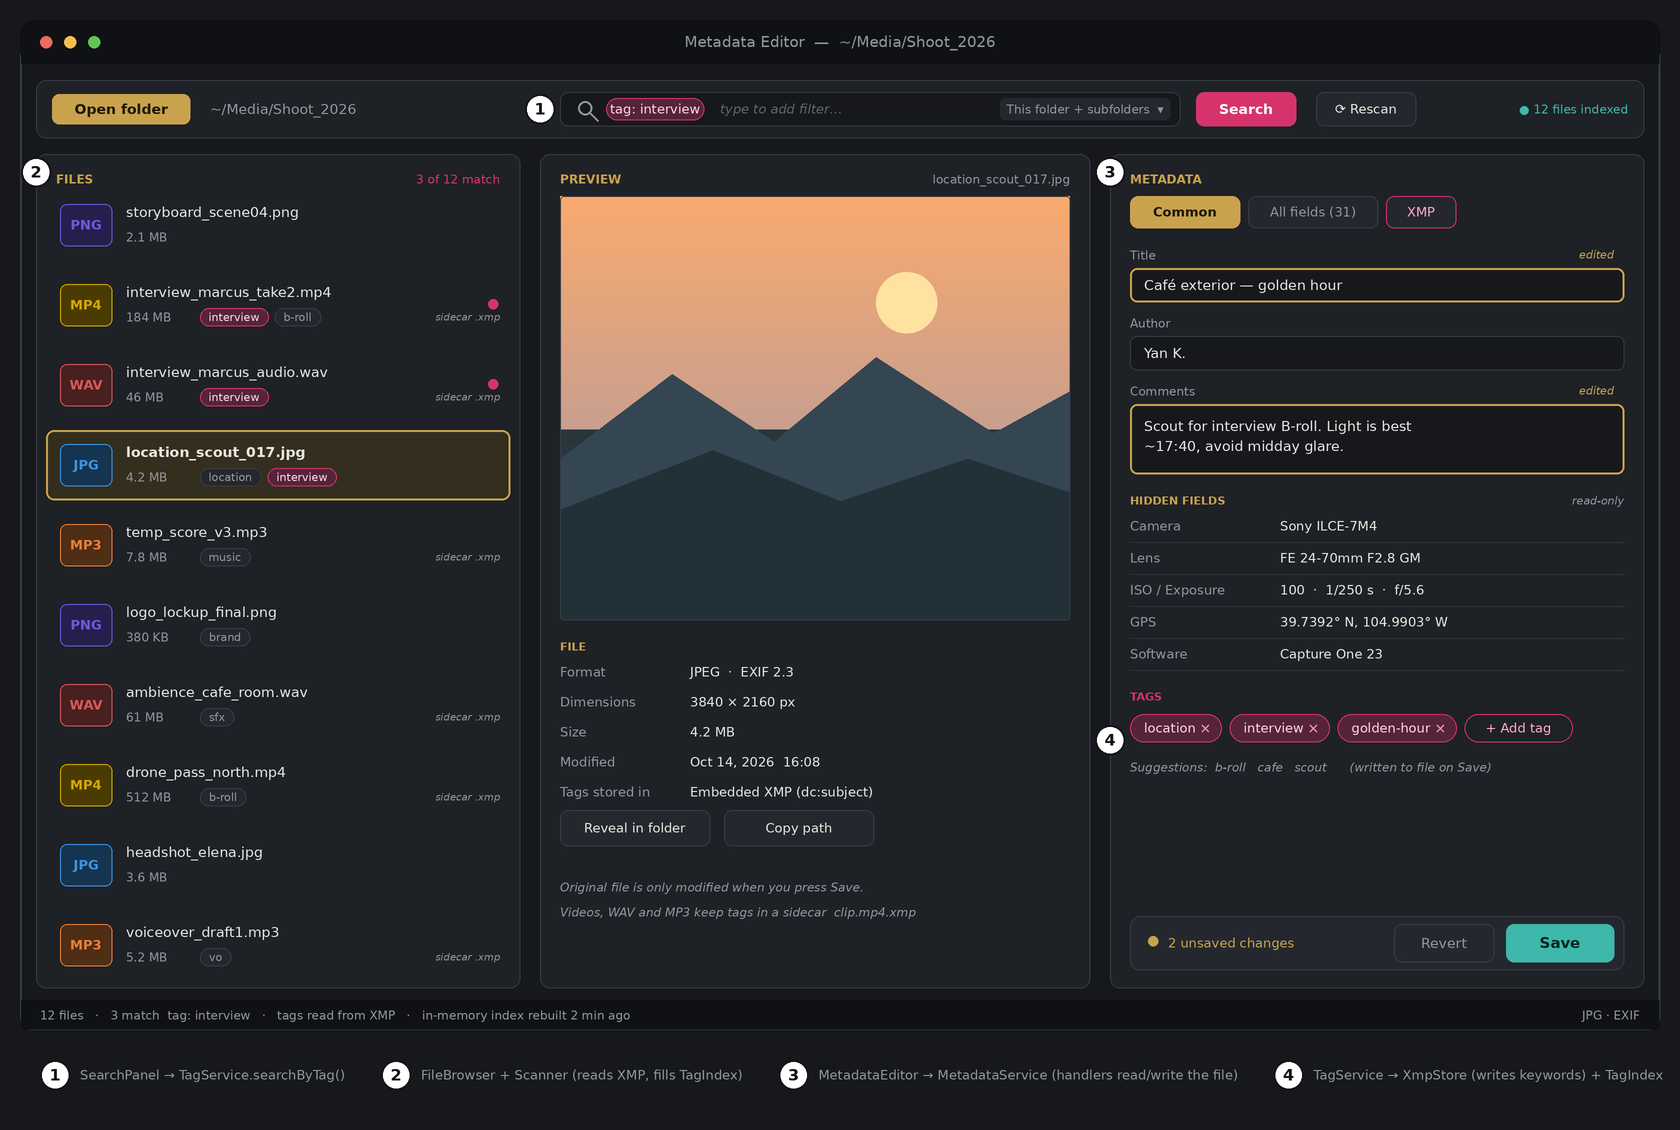
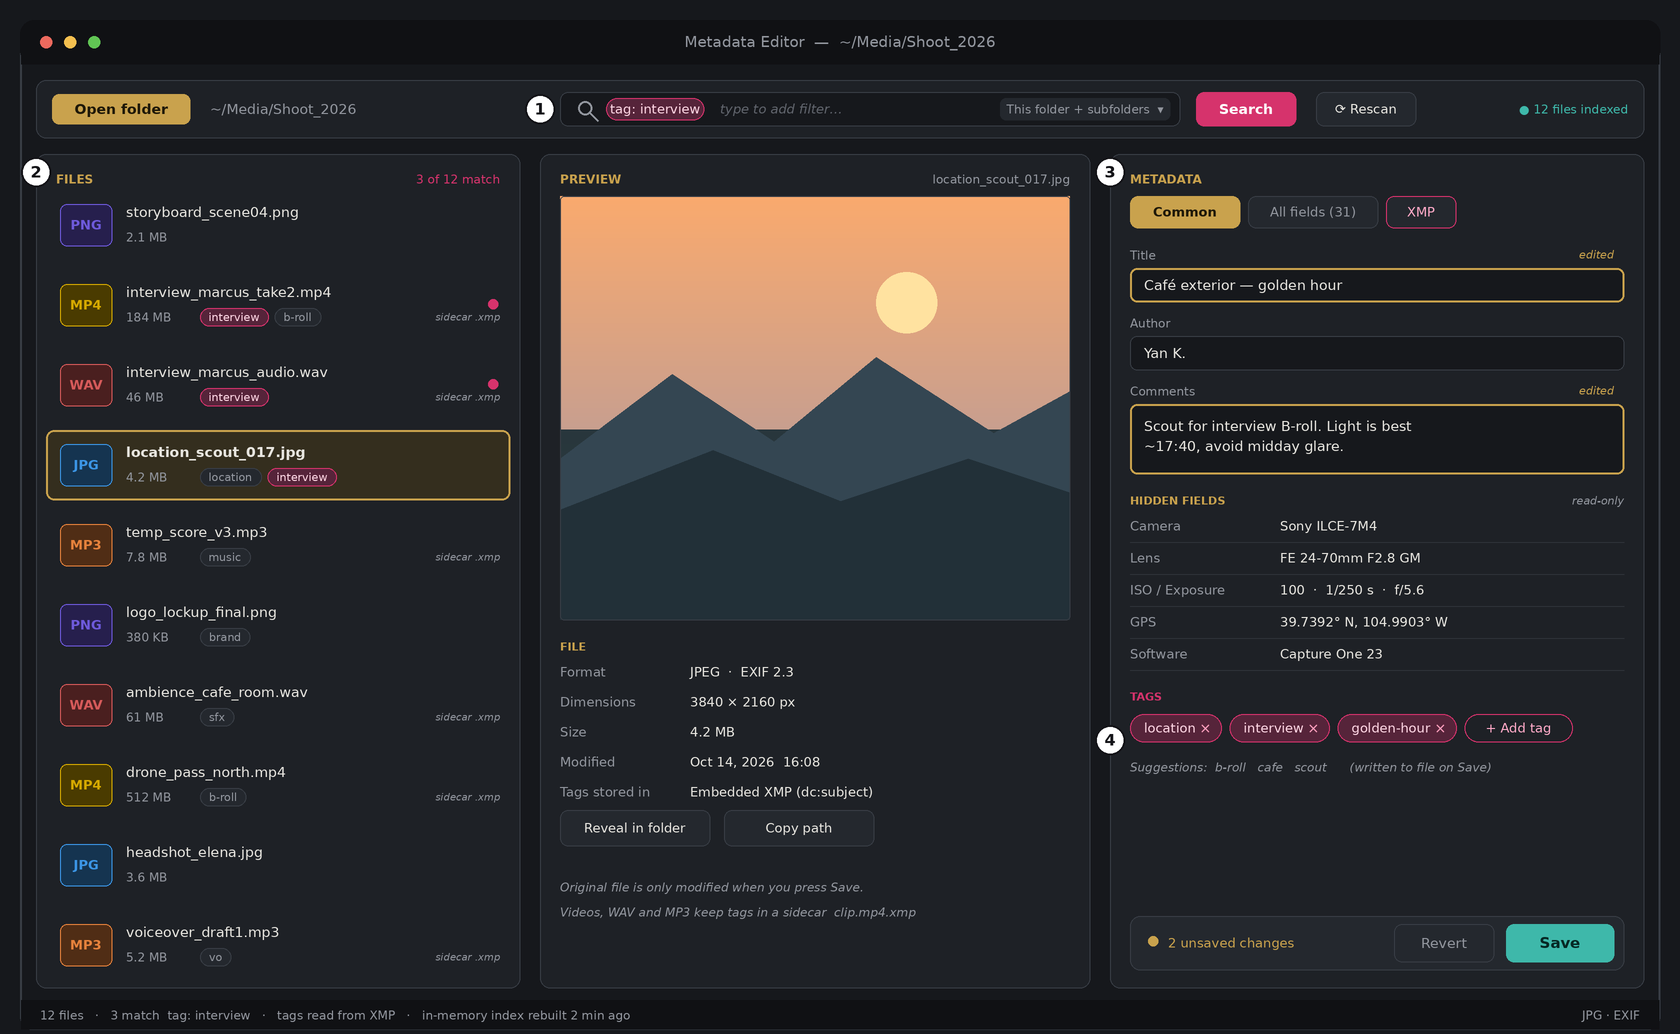
feat(home): task-first hero, screenshot legend and "How it works" steps
- Home button matches the visitor's system ("Download for Windows / macOS / Linux").
- Crop the developer labels off assets/screenshot-main.png; the numbered legend is now
  real text under the picture. Add width/height to avoid layout shift.
- Feature cards get icons in one consistent style.
- Add a 3-step "How it works" section (open a folder, edit or tag, search by tag).
- Supported formats become a proper list; remove the legacy .formats span rule.
- main.js: add shared helpers (byId, detectOS, setStatus) and the home-button logic.

diff --git a/code/website/index.html b/code/website/index.html
@@ -5,7 +5,6 @@
 <meta name="viewport" content="width=device-width, initial-scale=1">
 <title>Home · MultiMedia Metadata Manager (QuadM)</title>
 <meta name="description" content="View and edit hidden metadata, tag files, and search by tag across your media folders.">
-<!-- Apply the shared styles used across the project website. -->
 <link rel="icon" href="assets/favicon.svg" type="image/svg+xml">
 <link rel="stylesheet" href="css/style.css">
 </head>
@@ -25,35 +24,59 @@
   </div>
 </header>
 <main>
-<!-- Introduce the app's purpose and direct visitors to downloads or instructions. -->
+<!-- Hero: one clear promise and one primary action (download), one secondary (guide). -->
 <section class="hero" id="content">
   <div class="wrap">
+    <p class="eyebrow">Desktop app for Windows, macOS and Linux</p>
     <h1>See and edit everything hidden inside your media files.</h1>
     <p class="lead">MultiMedia Metadata Manager (QuadM) is a focused desktop file explorer for images, audio and video. Edit title, author and comments, tag your files, and search by tag across whole folders.</p>
     <p class="cta">
-      <a class="btn primary" href="download.html">Download QuadM</a>
-      <a class="btn" href="guide.html">Read the user guide</a>
+      <a class="btn primary btn-lg" id="cta-download" href="download.html">Download QuadM</a>
+      <a class="btn btn-lg" href="guide.html">Read the user guide</a>
     </p>
-    <!-- Display a visual preview of the app interface. Replace the mockup when a final screenshot is available. -->
-    <img class="shot" src="assets/screenshot-main.png" alt="MultiMedia Metadata Manager (QuadM) main window (design mockup)">
+    <p class="muted small">Your original files are only changed when you press Save.</p>
+    <!-- The numbered circles in the picture are explained by the legend, so the labels are real text, not part of the image. -->
+    <figure class="shot-fig">
+      <img class="shot" src="assets/screenshot-main.png" width="1680" height="1034" alt="QuadM main window (design preview): a file list on the left, a preview in the middle, and metadata fields and tags on the right.">
+      <figcaption>
+        Preview of the main window:
+        <ol class="legend">
+          <li>Search by tag</li>
+          <li>Browse files</li>
+          <li>View and edit metadata</li>
+          <li>Add tags</li>
+        </ol>
+      </figcaption>
+    </figure>
   </div>
 </section>
 
-<!-- Summarize the app's core metadata, tagging, and search capabilities. -->
+<!-- Features: four cards, same structure, same icon style. -->
 <section class="wrap">
   <h2>What it does</h2>
   <div class="cards">
-    <article class="card"><h3>View all metadata</h3><p>Common fields plus the hidden ones: camera, GPS, codec, software, and more.</p></article>
-    <article class="card"><h3>Edit common fields</h3><p>Change title, author and comments. Nothing is written until you press Save.</p></article>
-    <article class="card"><h3>Tag your files</h3><p>Tags are stored in the file itself (XMP), or in a sidecar .xmp file for video and audio.</p></article>
-    <article class="card"><h3>Search by tag</h3><p>Find every file with a tag across a folder and its subfolders.</p></article>
+    <article class="card"><h3><svg class="icon" aria-hidden="true" viewBox="0 0 24 24"><path d="M1 12s4-7 11-7 11 7 11 7-4 7-11 7S1 12 1 12z"/><circle cx="12" cy="12" r="3"/></svg>View all metadata</h3><p>Common fields plus the hidden ones: camera, GPS, codec, software, and more.</p></article>
+    <article class="card"><h3><svg class="icon" aria-hidden="true" viewBox="0 0 24 24"><path d="M12 20h9"/><path d="M16.5 3.5a2.1 2.1 0 013 3L7 19l-4 1 1-4z"/></svg>Edit common fields</h3><p>Change title, author and comments. Nothing is written until you press Save.</p></article>
+    <article class="card"><h3><svg class="icon" aria-hidden="true" viewBox="0 0 24 24"><path d="M20.6 13.4l-7.2 7.2a2 2 0 01-2.8 0L2 12V2h10l8.6 8.6a2 2 0 010 2.8z"/><circle cx="7" cy="7" r="1.5"/></svg>Tag your files</h3><p>Tags are stored in the file itself (XMP), or in a sidecar .xmp file for video and audio.</p></article>
+    <article class="card"><h3><svg class="icon" aria-hidden="true" viewBox="0 0 24 24"><circle cx="11" cy="11" r="7"/><path d="M21 21l-4.3-4.3"/></svg>Search by tag</h3><p>Find every file with a tag across a folder and its subfolders.</p></article>
   </div>
+</section>
+
+<!-- The three steps a user actually takes (task flow), so a new visitor knows what using it looks like. -->
+<section class="wrap">
+  <h2>How it works</h2>
+  <ol class="how">
+    <li><strong>Open a folder</strong>QuadM scans it and its subfolders and lists your media files.</li>
+    <li><strong>Edit or tag</strong>Select a file, change its fields or add tags, then press Save.</li>
+    <li><strong>Search by tag</strong>Type a tag and see every matching file in seconds.</li>
+  </ol>
+  <p style="margin-top:var(--s4)"><a href="guide.html">Read the full user guide &rarr;</a></p>
 </section>
 
 <!-- List the media formats currently supported by the app. -->
 <section class="wrap">
   <h2>Supported formats</h2>
-  <p class="formats"><span>PNG</span><span>JPG</span><span>WAV</span><span>MP3</span><span>MP4</span></p>
+  <ul class="formats"><li>PNG</li><li>JPG</li><li>WAV</li><li>MP3</li><li>MP4</li></ul>
   <p class="muted">Built for media editors and anyone with a large collection of photos, music and video.</p>
 </section>
 </main>
@@ -69,8 +92,6 @@
     </nav>
   </div>
 </footer>
-<!-- Load shared JavaScript for interactive features used by site pages. -->
 <script src="js/main.js"></script>
-
 </body>
 </html>

diff --git a/code/website/js/main.js b/code/website/js/main.js
@@ -5,6 +5,48 @@ const REPO = "University-of-Colorado-Anschutz-Denver/CSCI-3508-Group-6";   // ow
 const FIREBASE = { projectId: "quadmdatabase", apiKey: "AIzaSyBEJ8hqkAfUM4wEWumKLhwnccG6hhm0-Q4" };
 
 // ---------------------------------------------------------------------------
+// Shared helpers
+// ---------------------------------------------------------------------------
+const byId = id => document.getElementById(id);
+
+// Which operating system is the visitor on? Returns "win", "mac", "linux" or null.
+// Used to recommend the right download and open the matching install steps.
+function detectOS() {
+  const plat = (navigator.userAgentData && navigator.userAgentData.platform) || navigator.platform || "";
+  return /mac/i.test(plat) ? "mac" : /win/i.test(plat) ? "win" : /linux/i.test(plat) ? "linux" : null;
+}
+
+// Small inline icons for status messages (static markup, same style as the pages).
+const STATUS_ICONS = {
+  ok:   '<circle cx="12" cy="12" r="10"/><path d="M8 12l3 3 5-6"/>',
+  err:  '<circle cx="12" cy="12" r="10"/><path d="M9 9l6 6M15 9l-6 6"/>',
+  warn: '<path d="M12 3l10 18H2z"/><path d="M12 10v5M12 18h.01"/>',
+  info: '<circle cx="12" cy="12" r="10"/><path d="M12 11v6M12 7.5h.01"/>'
+};
+
+// Show a message in a status box: colored by meaning (ok/err/warn/info) and
+// always with an icon and text, so color is never the only signal.
+function setStatus(el, kind, text) {
+  el.className = "status " + kind;
+  el.innerHTML = `<svg class="icon" aria-hidden="true" viewBox="0 0 24 24">${STATUS_ICONS[kind]}</svg>`;
+  const span = document.createElement("span");
+  span.textContent = text;                          // text only: never inject markup
+  el.appendChild(span);
+}
+function clearStatus(el) { el.className = "status"; el.textContent = ""; }
+
+// ---------------------------------------------------------------------------
+// Home page
+// Make the main button match the visitor's computer ("Download for macOS").
+// ---------------------------------------------------------------------------
+(function personalizeHomeButton() {
+  const cta = byId("cta-download");
+  if (!cta) return;
+  const label = { win: "Download for Windows", mac: "Download for macOS", linux: "Download for Linux" }[detectOS()];
+  if (label) cta.textContent = label;
+})();
+
+// ---------------------------------------------------------------------------
 // Download page
 // Fetches the latest release and renders its version/assets/metadata into the
 // page. Runs only when a #version element exists (i.e. on the download page),
@@ -81,7 +123,6 @@ if (document.getElementById("version")) {
     document.getElementById("version").textContent = "see GitHub Releases";
   });
 }
-
 
 // ---------------------------------------------------------------------------
 // Feedback form

diff --git a/code/website/css/style.css b/code/website/css/style.css
@@ -189,6 +189,5 @@ a:focus-visible,button:focus-visible,input:focus-visible,select:focus-visible,te
 .sr-only{position:absolute;width:1px;height:1px;margin:-1px;padding:0;overflow:hidden;clip:rect(0 0 0 0);white-space:nowrap;border:0}
 
 /* --- Legacy rules: keep pages not yet migrated looking right; removed in later steps --- */
-.formats span{display:inline-block;margin:0 8px 8px 0;padding:4px 12px;border:1px solid var(--line);border-radius:999px;font-weight:600}
 #form-status.ok{color:var(--ok-fg)}
 #form-status.err{color:var(--err-fg)}
